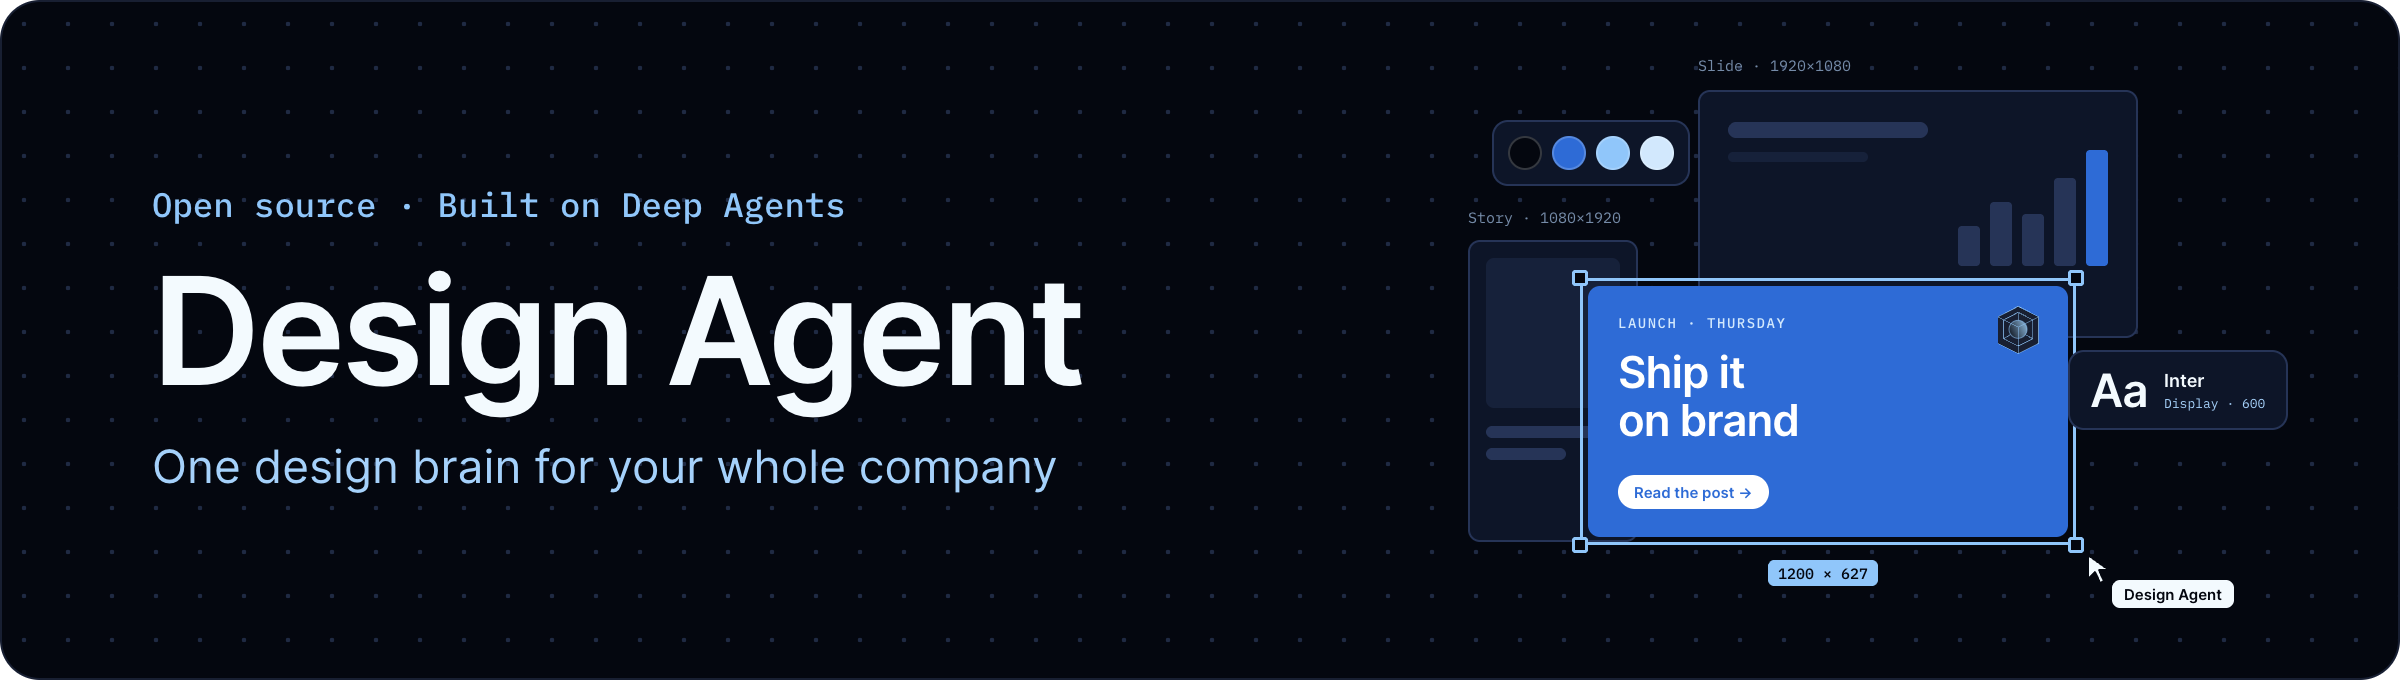
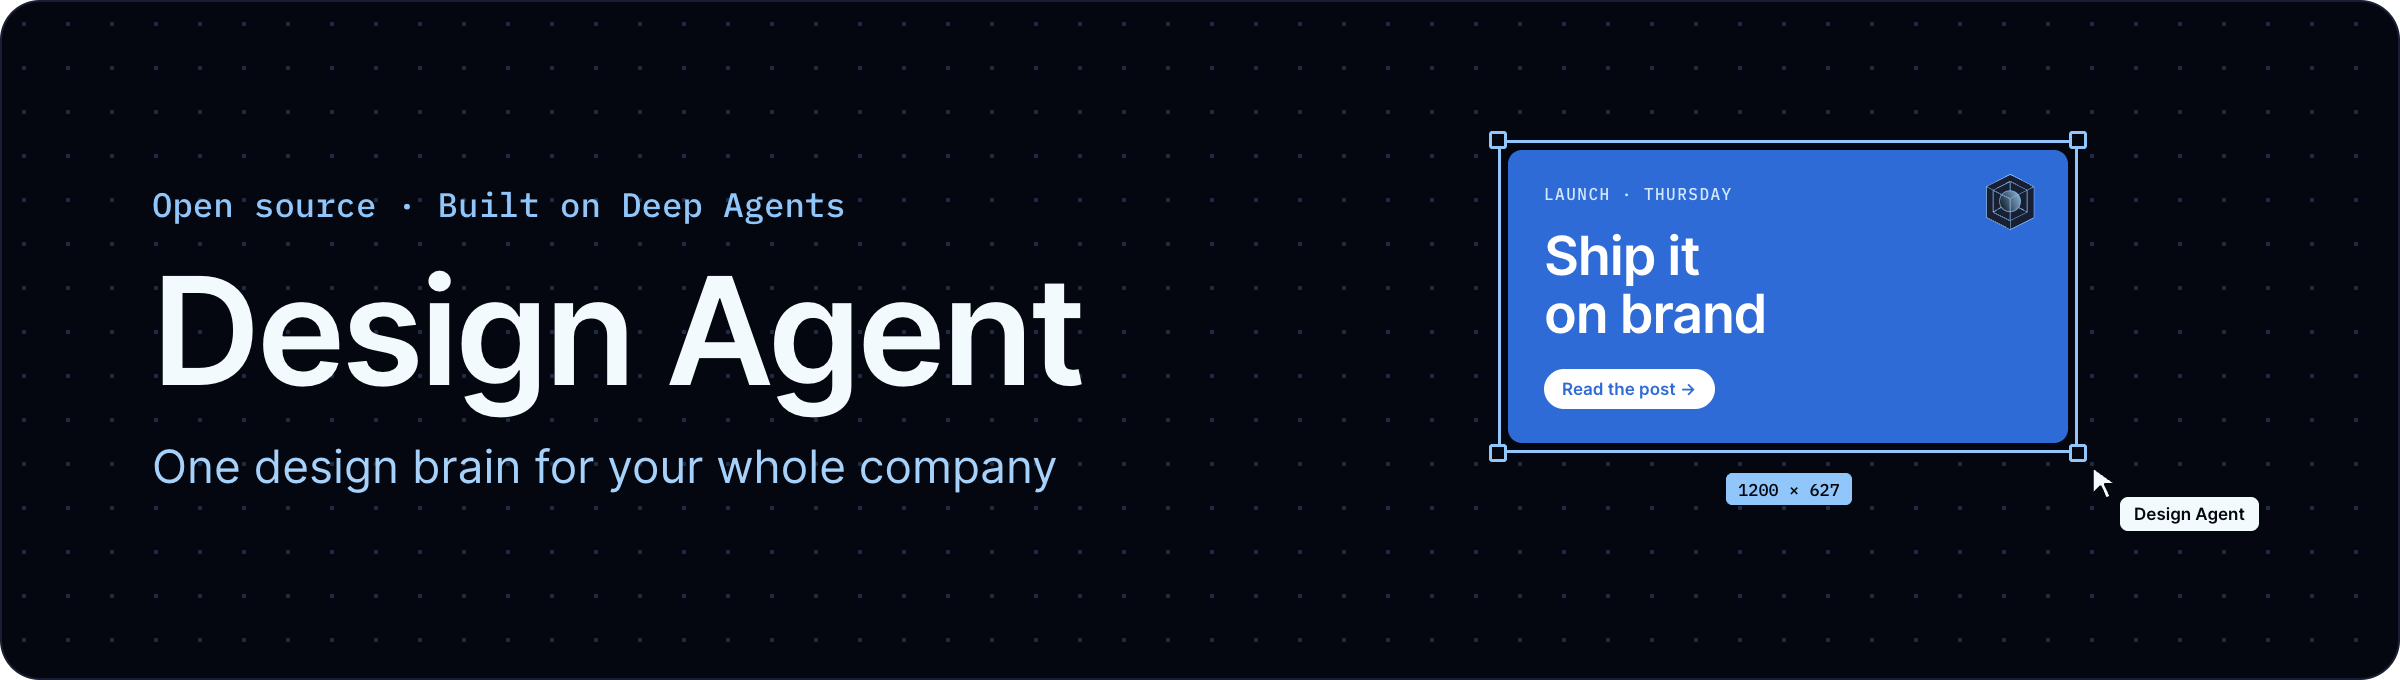
README: calmer top: minimal header, four badges, hero after the intro
The header keeps only the selected launch card and the agent's cursor. The
badges drop to one row (license, Python, Deep Agents, Managed Deep Agents),
and the hero moves below the intro so two big images no longer stack. The
hero and film poster use repository-relative paths, so they render on any
branch.

Changed region(s): [[0.5938, 0.0926, 0.9688, 0.8647], [0.875, 0.8338, 0.9375, 0.8956]]

diff --git a/README.md b/README.md
@@ -16,9 +16,6 @@
     <a href="https://www.python.org"><picture><source media="(prefers-color-scheme: dark)" srcset="https://shieldcn.dev/badge/python-3.11%2B-7FC8FF.svg?variant=outline&logo=python&mode=dark"><img src="https://shieldcn.dev/badge/python-3.11%2B-006DDD.svg?variant=outline&logo=python&mode=light" alt="Python 3.11+"></picture></a>
     <a href="https://github.com/langchain-ai/deepagents"><picture><source media="(prefers-color-scheme: dark)" srcset="https://shieldcn.dev/badge/built%20on-Deep%20Agents-7FC8FF.svg?variant=outline&logo=lu:Layers&mode=dark"><img src="https://shieldcn.dev/badge/built%20on-Deep%20Agents-006DDD.svg?variant=outline&logo=lu:Layers&mode=light" alt="Built on Deep Agents"></picture></a>
     <a href="https://docs.langchain.com/langsmith/python/managed-deep-agents-overview"><picture><source media="(prefers-color-scheme: dark)" srcset="https://shieldcn.dev/badge/deploy-Managed%20Deep%20Agents-7FC8FF.svg?variant=outline&logo=lu:Rocket&mode=dark"><img src="https://shieldcn.dev/badge/deploy-Managed%20Deep%20Agents-006DDD.svg?variant=outline&logo=lu:Rocket&mode=light" alt="Deploy with Managed Deep Agents"></picture></a>
-    <a href="docs/self-hosting.md"><picture><source media="(prefers-color-scheme: dark)" srcset="https://shieldcn.dev/badge/self--host-Docker-7FC8FF.svg?variant=outline&logo=docker&mode=dark"><img src="https://shieldcn.dev/badge/self--host-Docker-006DDD.svg?variant=outline&logo=docker&mode=light" alt="Self-host with Docker"></picture></a>
-    <a href="https://hyperframes.heygen.com"><picture><source media="(prefers-color-scheme: dark)" srcset="https://shieldcn.dev/badge/video-HyperFrames-7FC8FF.svg?variant=outline&logo=lu:Clapperboard&mode=dark"><img src="https://shieldcn.dev/badge/video-HyperFrames-006DDD.svg?variant=outline&logo=lu:Clapperboard&mode=light" alt="Video with HyperFrames"></picture></a>
-    <a href="https://paper.design"><picture><source media="(prefers-color-scheme: dark)" srcset="https://shieldcn.dev/badge/canvas-Paper-7FC8FF.svg?variant=outline&logo=lu:PenTool&mode=dark"><img src="https://shieldcn.dev/badge/canvas-Paper-006DDD.svg?variant=outline&logo=lu:PenTool&mode=light" alt="Canvas in Paper"></picture></a>
   </p>
   <p>
     <a href="#get-started">Get started</a> ·
@@ -29,16 +26,16 @@
   </p>
 </div>
 
-<p align="center">
-  <img src="https://github.com/langchain-ai/design-agent/raw/main/docs/assets/readme/hero.png" alt="Design Agent at work: a Slack request for a launch film, and the agent's computer with its project folders, a HyperFrames render in the terminal, the film preview, layers and references" width="100%">
-</p>
-
 We built Design Agent as our own design teammate at LangChain, and now it's open source.
 
 You ask for something the way you'd ask a designer: "a LinkedIn card for Thursday's launch", "turn
 this into a 2x2", "a 30-second teaser for the new release". It picks a concept, lays the piece out,
 builds it on its own computer, checks it against your brand, and posts the files back to you. For
 anything big, like a film, it shows you a storyboard first, and you approve it before it renders.
+
+<p align="center">
+  <img src="docs/assets/readme/hero.png" alt="Design Agent at work: a Slack request for a launch film, and the agent's computer with its project folders, a HyperFrames render in the terminal, the film preview, layers and references" width="100%">
+</p>
 
 > [!NOTE]
 > Everything you see here uses LangChain's brand, because that's the brand we run it with. Out of
@@ -48,7 +45,7 @@ anything big, like a film, it shows you a storyboard first, and you approve it b
 ## See it work
 
 <p align="center">
-  <a href="https://github.com/langchain-ai/design-agent/blob/main/docs/assets/readme/design-agent-explainer.mp4"><img src="https://github.com/langchain-ai/design-agent/raw/main/docs/assets/readme/film-thumbnail.png" alt="Play the 2-minute film: How Design Agent works, one Slack request from the sandbox to the final film" width="100%"></a>
+  <a href="https://github.com/langchain-ai/design-agent/blob/main/docs/assets/readme/design-agent-explainer.mp4"><img src="docs/assets/readme/film-thumbnail.png" alt="Play the 2-minute film: How Design Agent works, one Slack request from the sandbox to the final film" width="100%"></a>
   <br><sub><b><a href="https://github.com/langchain-ai/design-agent/blob/main/docs/assets/readme/design-agent-explainer.mp4">▶ Click to watch the 2-minute film</a></b>: one Slack request, from the sandbox to skills, Paper, the helpers, HyperFrames, the checks and the sound.</sub>
 </p>
 
